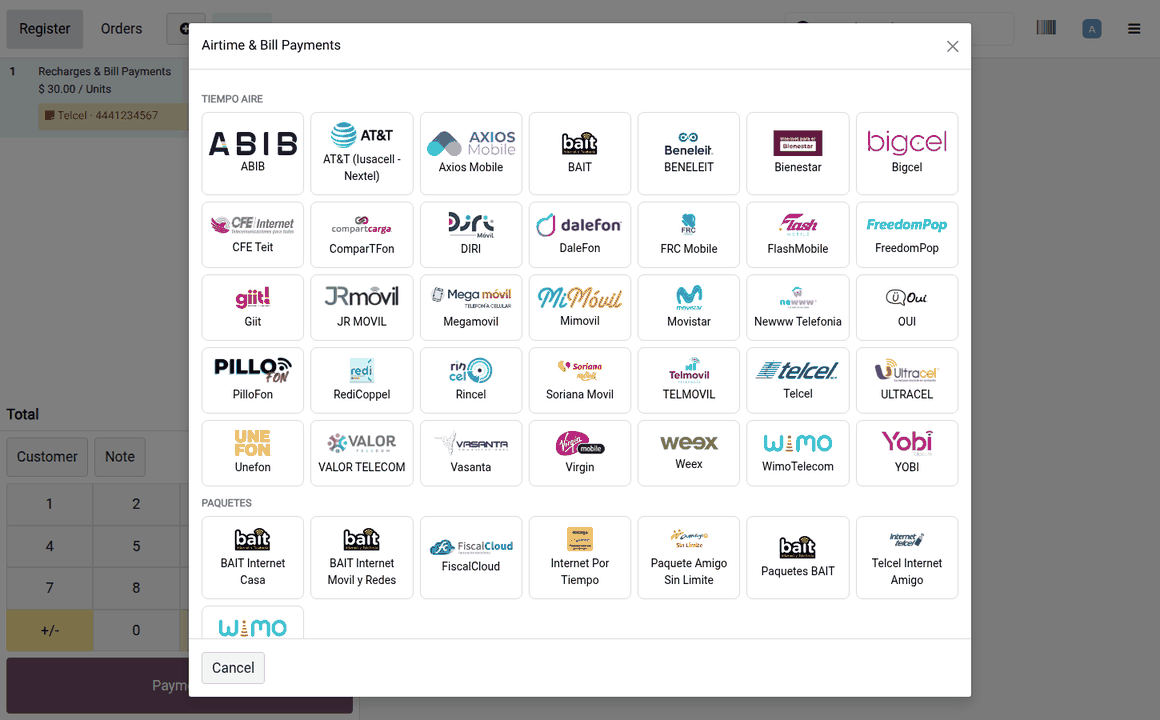
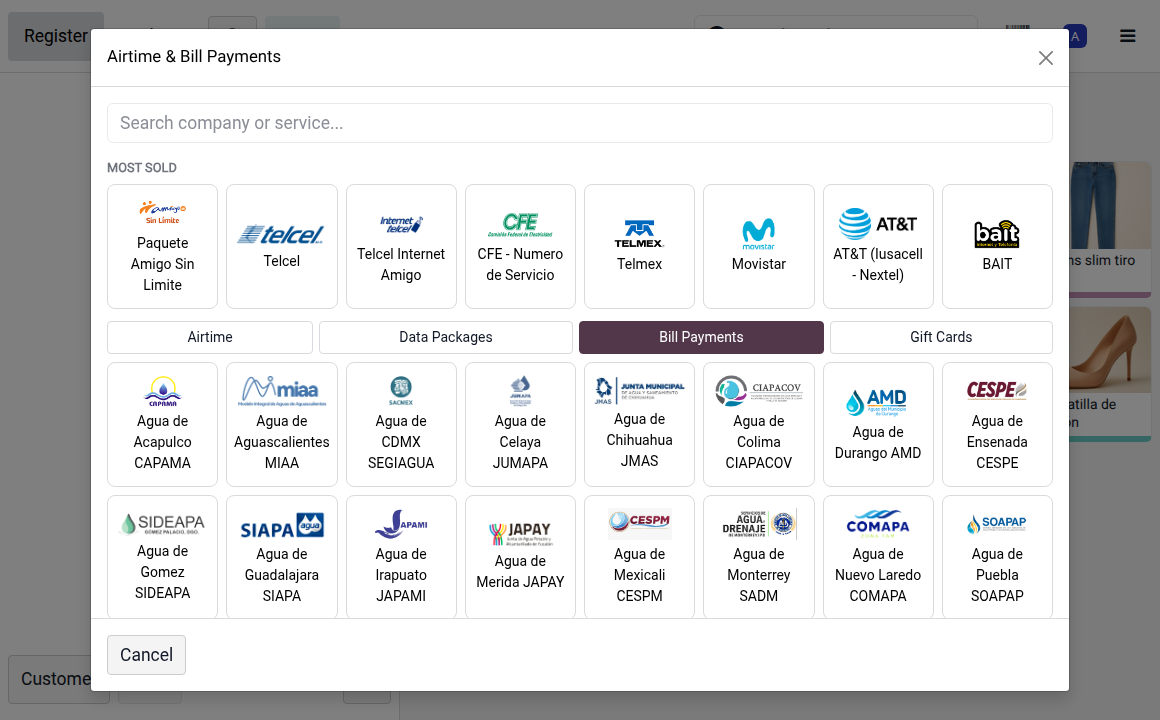
xb_pos_taecel 17.0.1.1.7: screenshots and cashier manual match the new recharge picker
- Store page: new carriers screenshot (most sold, tabs, search box) and a
  line on the search box, the tabs and small POS terminals.
- Cashier manual: steps 2 and bill payments describe the search box and the
  tabs; their screenshots retaken (es and en).
- The manual is refreshed on upgrade. Its checksum was taken of the body we
  generated, which the html sanitizer always rewrites, so every manual looked
  edited by hand and none was ever refreshed. It is now taken of the stored
  body, and a body last written by the superuser counts as untouched.

diff --git a/xb_pos_taecel/static/description/index.html b/xb_pos_taecel/static/description/index.html
@@ -39,8 +39,11 @@
 
     <div style="margin:0 0 32px;">
       <p style="font-size:15px;color:#666;margin:0 0 10px;">
-        That button opens the whole catalog, grouped as TAECEL publishes it
-        &mdash; airtime, data packages, bill payments:
+        That button opens the whole catalog. What this shop sells most comes
+        first, then one tab per group &mdash; airtime, data packages, bill
+        payments, gift cards &mdash; and a search box finds any company by
+        name, accents or not. It fits small POS terminals too, and on a touch
+        screen the keyboard only shows up when the cashier taps the search box:
       </p>
       <img src="screenshots/carriers.png"
            style="max-width:100%;border:1px solid #ecdede;border-radius:8px;"/>
@@ -84,6 +87,9 @@
           Bait, Virgin, Weex and the rest, plus utilities such as CFE, Telmex,
           Sky, Dish and Megacable. The catalog is synchronised from TAECEL on
           demand and on a schedule, so new products appear without an update.</li>
+      <li><b>Found in seconds</b> &mdash; the most sold carriers on top, tabs
+          per group and a search box, in a window that fits handheld
+          terminals such as the Newland N750.</li>
       <li><b>Your own service fee</b> per carrier, added to the line and printed
           on the receipt as TAECEL requires.</li>
       <li><b>Electronic PINs</b> handed to the customer on the ticket.</li>

diff --git a/xb_pos_taecel/manual.py b/xb_pos_taecel/manual.py
@@ -20,7 +20,8 @@ from odoo.tools.translate import _
 _logger = logging.getLogger(__name__)
 
 ARTICLE_XMLID = 'xb_pos_taecel.article_cashier_manual'
-CHECKSUM_PARAM = 'xb_pos_taecel.manual_checksum'
+CHECKSUM_PARAM = 'xb_pos_taecel.manual_checksum'        # body as stored
+SOURCE_PARAM = 'xb_pos_taecel.manual_source_checksum'    # body as generated
 IMG_BASE = '/xb_pos_taecel/static/src/img/manual'
 
 
@@ -90,9 +91,11 @@ def build_body(env):
 
     add('<h2>%s</h2>' % _("2 - Pick the carrier or the service"))
     add(_p(_(
-        "The full list opens: mobile carriers at the top, services (power, "
-        "cable, internet, pay TV) further down. It is the catalog your provider "
-        "publishes, so if it shows here, it can be sold.")))
+        "At the top are the carriers this shop sells most. Below them, one tab "
+        "per group: airtime, data packages, bill payments and gift cards. To go "
+        "straight to one, type part of its name in the search box -- \"telcel\", "
+        "\"cfe\" --, accents or not. It is the catalog your provider publishes, "
+        "so if it shows here, it can be sold.")))
     add(_img(folder, '02_companias', _("List of carriers and services")))
 
     add('<h2>%s</h2>' % _("3 - Tap the amount the customer asked for"))
@@ -135,10 +138,10 @@ def build_body(env):
 
     add('<h2>%s</h2>' % _("Bill payments: power, water, cable..."))
     add(_p(_(
-        "Taking a bill is the same flow with one change. In the list, next to "
-        "the mobile carriers, are the services: power, water, gas, cable, "
-        "internet, pay TV and several government offices. Pick the one on the "
-        "customer's bill.")))
+        "Taking a bill is the same flow with one change. The services -- power, "
+        "water, gas, cable, internet, pay TV and several government offices -- "
+        "are under the bill payments tab. Pick the one on the customer's bill, "
+        "or type its name in the search box.")))
     add(_img(folder, '06_servicios', _("List of services")))
     add(_p(_(
         "The difference: a service has %(no_fixed)s. Instead you type two "
@@ -313,12 +316,19 @@ def install_manual(env):
     if article:
         # Refresh only what the customer has not touched: an edited manual is
         # theirs, and stomping it on every upgrade would be worse than stale.
+        # Two checksums. CHECKSUM_PARAM is of the body AS STORED: the html
+        # sanitizer rewrites what we hand it, so comparing against the body we
+        # generated never matched and every manual looked edited. A body last
+        # written by the superuser (this function) was not edited by a person
+        # either. SOURCE_PARAM is of the body as generated: when it has not
+        # changed there is nothing new to write.
         previous = params.get_param(CHECKSUM_PARAM)
         current = hashlib.sha256((article.body or '').encode()).hexdigest()
-        if previous and previous != current:
+        by_us = article.write_uid.id == SUPERUSER_ID
+        if previous and previous != current and not by_us:
             _logger.info('xb_pos_taecel: cashier manual edited locally, left as is.')
             return article
-        if previous == digest:
+        if params.get_param(SOURCE_PARAM) == digest:
             return article
         article.write({'body': body})
     else:
@@ -349,6 +359,7 @@ def install_manual(env):
     # behind an ORM write is what makes an article revert in the browser.
     if 'html_field_history' in article._fields:
         article.write({'html_field_history': False})
-    params.set_param(CHECKSUM_PARAM, digest)
+    params.set_param(CHECKSUM_PARAM, hashlib.sha256((article.body or '').encode()).hexdigest())
+    params.set_param(SOURCE_PARAM, digest)
     _logger.info('xb_pos_taecel: cashier manual ready (article %s, %s).', article.id, lang)
     return article

diff --git a/xb_pos_taecel/migrations/1.1.7/post-migrate.py b/xb_pos_taecel/migrations/1.1.7/post-migrate.py
@@ -1,0 +1,15 @@
+# -*- coding: utf-8 -*-
+from odoo import api, SUPERUSER_ID
+
+
+def migrate(cr, version):
+    """Refresh the cashier manual: the carrier picker gained a search box, tabs
+    and a most-sold row, and the manual still described one long list.
+
+    install_manual() leaves a manual a person has edited alone. Up to 1.1.6 its
+    checksum never matched what was stored, so every manual looked edited and
+    none would have been refreshed; it now also trusts the last writer.
+    """
+    from odoo.addons.xb_pos_taecel import manual
+    env = api.Environment(cr, SUPERUSER_ID, {})
+    manual.install_manual(env)

diff --git a/xb_pos_taecel/__manifest__.py b/xb_pos_taecel/__manifest__.py
@@ -35,7 +35,7 @@ transactions. A distributor account on its own does not include API access.
 Runs on Odoo 17.0, 18.0, 19.0 and 20.0.
 """,
     'category': 'Sales/Point of Sale',
-    'version': '17.0.1.1.6',
+    'version': '17.0.1.1.7',
     'author': 'XUBAX',
     'website': 'https://xubax.com',
     'license': 'OPL-1',
